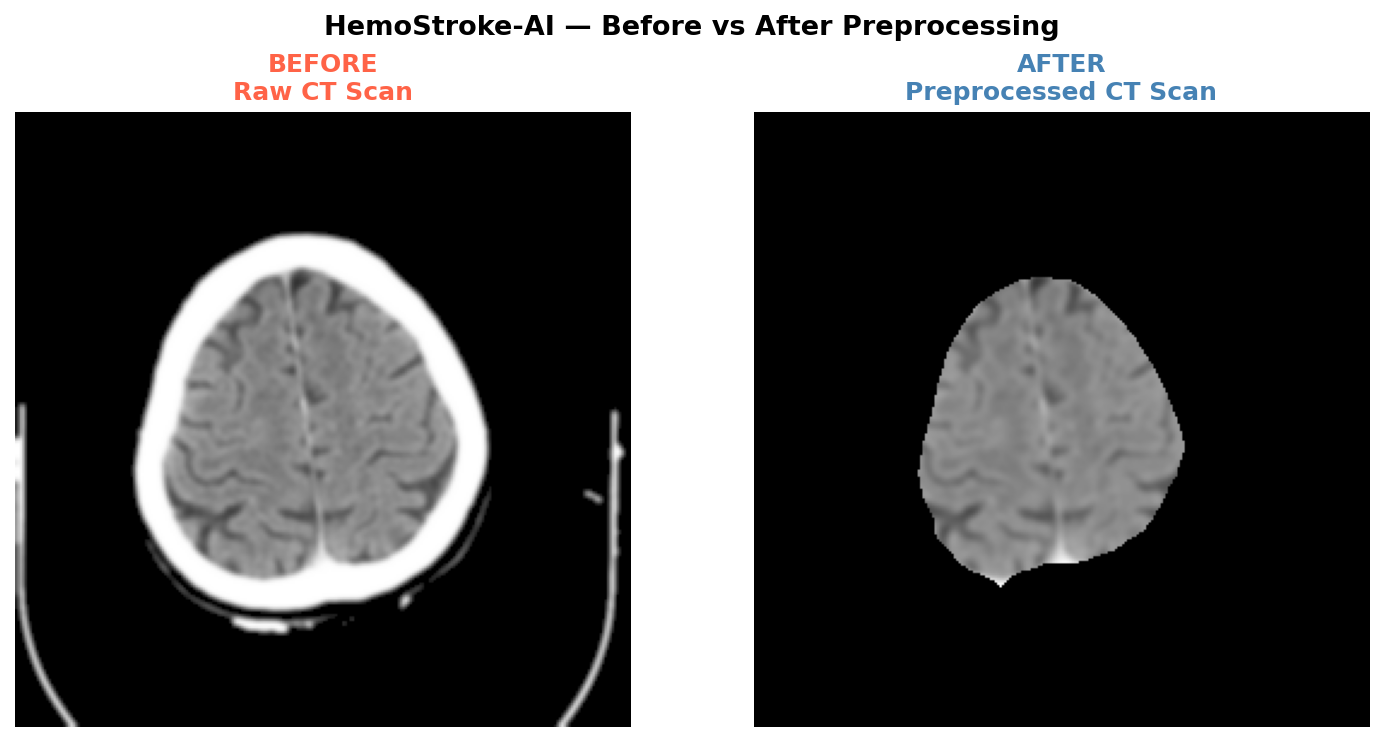
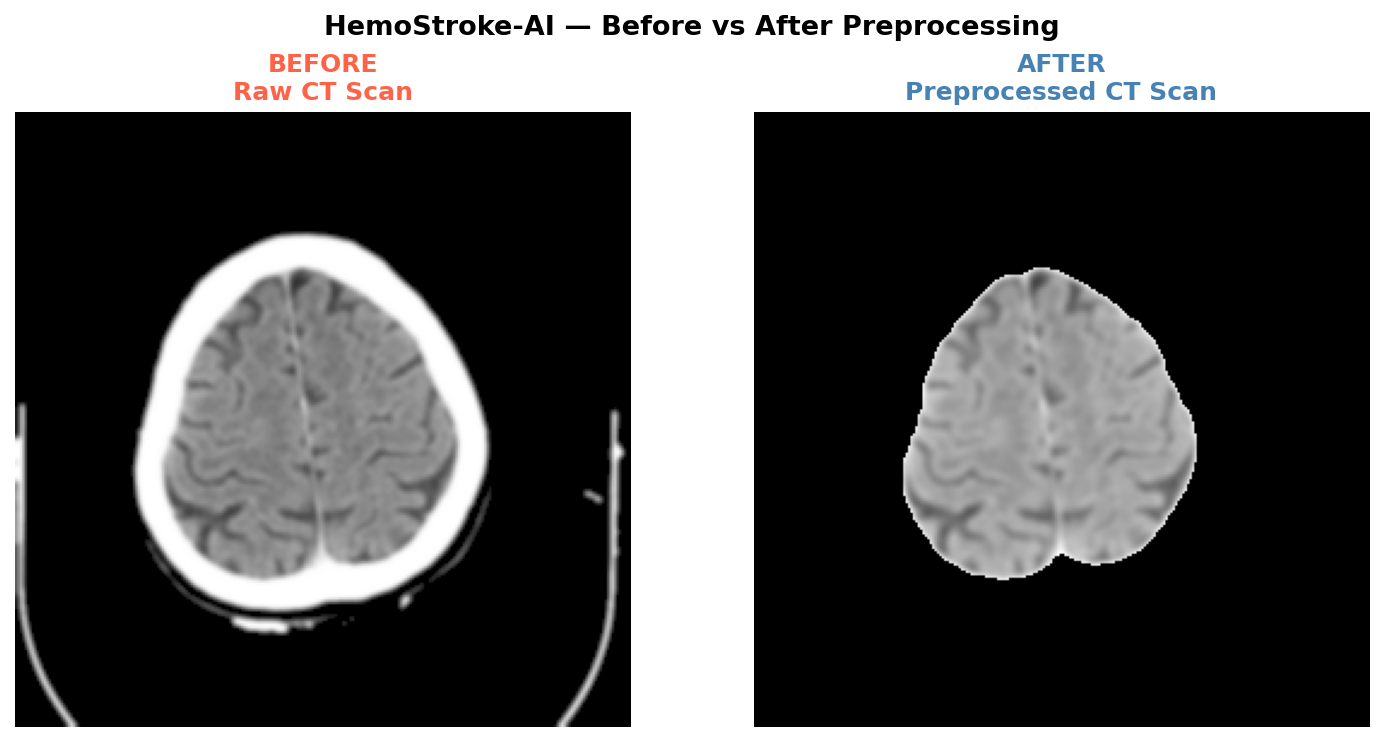
Fixed skull stripping bug - used connectedComponents instead of filled contours to properly exclude skull region

Changed region(s): [[0.6525, 0.341, 0.8699, 0.8059]]

diff --git a/src/preprocessing/skull_strip.py b/src/preprocessing/skull_strip.py
@@ -26,32 +26,26 @@ def threshold_skull_strip(image):
 
 def contour_skull_strip(image):
     """
-    Improved contour-based skull stripping.
-    Uses erosion to better separate skull from brain tissue.
+    Skull stripping using intensity-based skull removal.
+    Uses connected components (not filled contours) to avoid
+    incorrectly re-including the skull-shaped gap as solid.
     """
     img_uint8 = (image * 255).astype(np.uint8)
 
-    # Higher threshold to exclude bright skull bone
-    _, binary = cv2.threshold(img_uint8, 20, 255, cv2.THRESH_BINARY)
+    _, brain_only = cv2.threshold(img_uint8, 200, 255, cv2.THRESH_TOZERO_INV)
+    _, binary = cv2.threshold(brain_only, 15, 255, cv2.THRESH_BINARY)
 
-    # Find contours
-    contours, _ = cv2.findContours(
-        binary,
-        cv2.RETR_EXTERNAL,
-        cv2.CHAIN_APPROX_SIMPLE
-    )
+    kernel = cv2.getStructuringElement(cv2.MORPH_ELLIPSE, (7, 7))
+    closed = cv2.morphologyEx(binary, cv2.MORPH_CLOSE, kernel)
+    cleaned = cv2.morphologyEx(closed, cv2.MORPH_OPEN, kernel)
 
-    if not contours:
+    num_labels, labels = cv2.connectedComponents(cleaned)
+    if num_labels <= 1:
         return image
 
-    # Keep largest contour
-    largest = max(contours, key=cv2.contourArea)
-    mask    = np.zeros_like(img_uint8)
-    cv2.drawContours(mask, [largest], -1, 255, thickness=cv2.FILLED)
-
-    # Erode mask to shrink inward — this removes the skull ring
-    kernel = cv2.getStructuringElement(cv2.MORPH_ELLIPSE, (20, 20))
-    mask   = cv2.erode(mask, kernel, iterations=2)
+    sizes = [np.sum(labels == i) for i in range(1, num_labels)]
+    largest_label = 1 + int(np.argmax(sizes))
+    mask = np.where(labels == largest_label, 255, 0).astype(np.uint8)
 
     result = image * (mask / 255.0)
     return result.astype(np.float32)